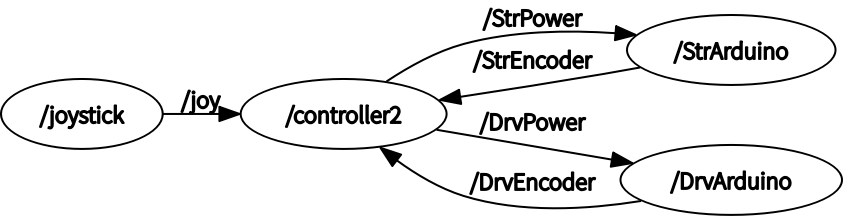
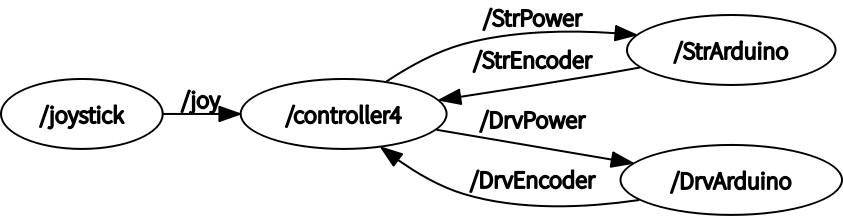
add

diff --git a/README.md b/README.md
@@ -25,11 +25,21 @@ sudo apt-get install ros-melodic-urg-node
 ## catkin buildのインストール
 sudo apt install python-catkin-tools
 
+## USBシリアル接続時に自動で書込権限を付与する  
+sudo vi /lib/udev/rules.d/50-udev-default.rules  
+（WAS）  
+KERNEL=="tty[A-Z]*[0-9]|pppox[0-9]*|ircomm[0-9]*|noz[0-9]*|rfcomm[0-9]*", GROUP="dialout"  
+（IS）  
+KERNEL=="tty[A-Z]*[0-9]|pppox[0-9]*|ircomm[0-9]*|noz[0-9]*|rfcomm[0-9]*", GROUP="dialout", MODE="0777"  # or 0666
+
 # Inverse kinematics model of independent 3-wheel steering
 θ is a constant
 ![Inverse kinematics model](Inverse_kinematics_model.jpg)
 
-# joy_controlのrqt_graph
+# 手動操縦  
+ステアを並進、回転移動させる（無限回転）  
+「5」「6」同時押しでステア角を0に設定する  
+roslaunch joy_control control4.launch  
 ![joy_control](joy_control.png)
 
 # memo
@@ -42,3 +52,8 @@ sudo apt install python-catkin-tools
 その他：7.0は速すぎるので，3.0が良い  
 
 ステア角の初期位置は、ハンドリング方向に対して左側に駆動輪ギアが位置する配置にする  
+
+(11/19)
+問題：USBを差し込むたびにArduinoにプログラム書き換える必要がある（なぜ...）  
+原因：仮想マシン上で選択したポート順番とポート番号が間違っていた  
+解決策：ポートを1つ挿して仮想マシンでポートを選択してから、新たなポートを加える  
